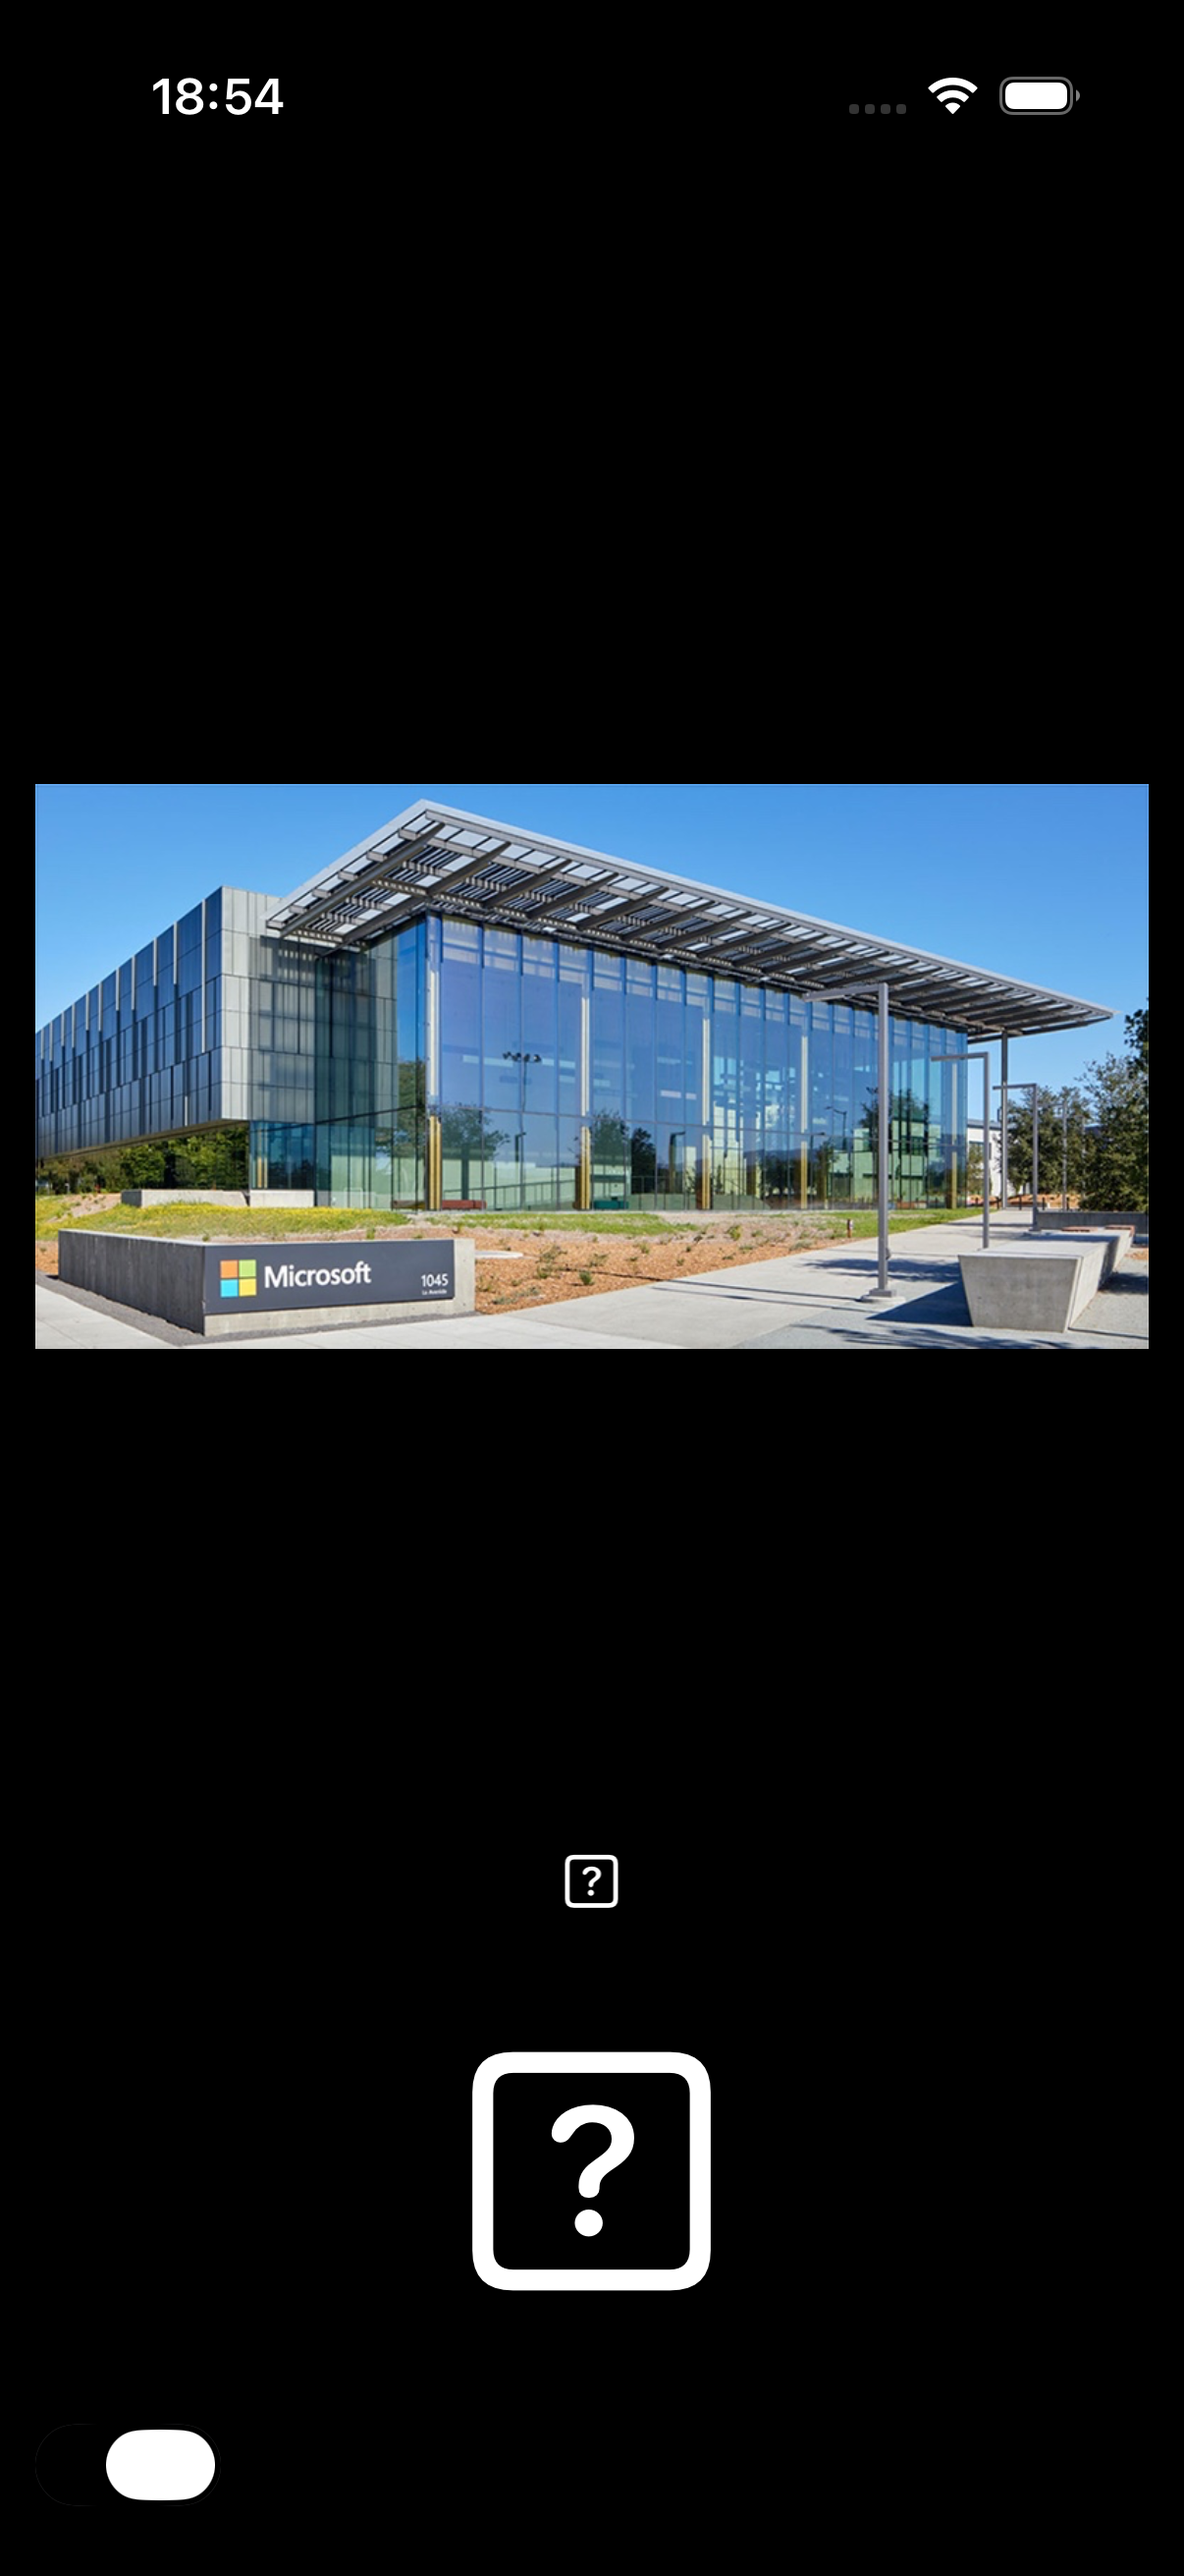
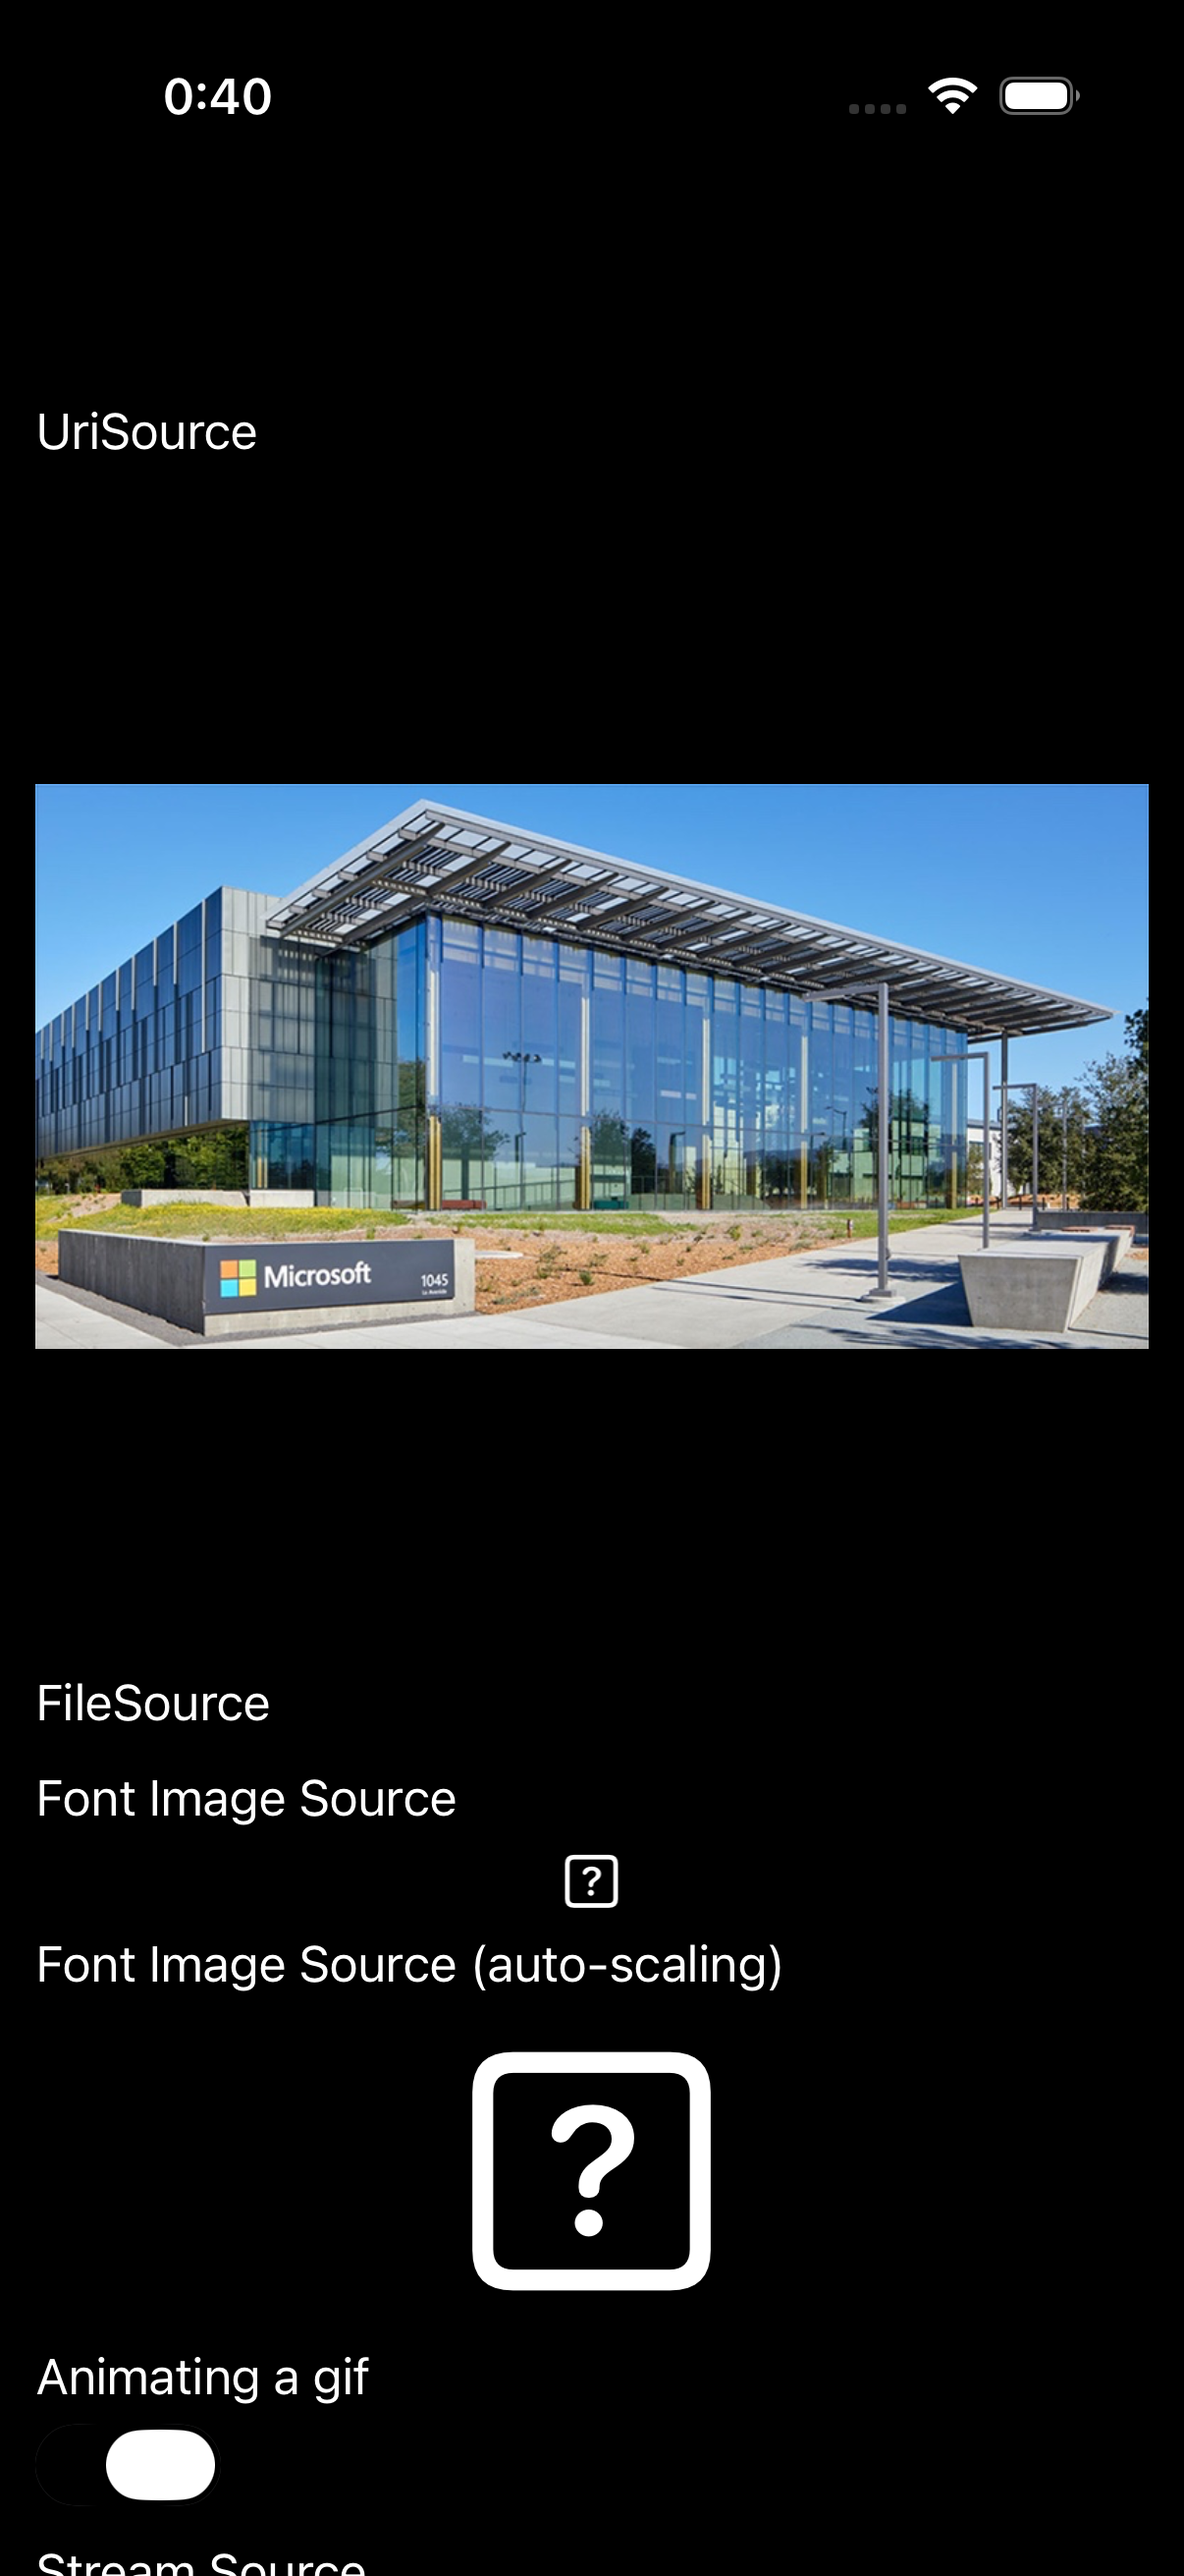
docs(parity): image — UriSource renders; from_file/FontImage need gallery asset bundling
example 17/172 (image): UriSource (remote https) renders identically to MAUI. But
FileSource (the purple .NET bot), the gif, and the Font Image Source rows are blank
because the C++ gallery .app bundles NO resource assets — only Info.plist + the binary,
so every from_file()/from_font() source fails to load (the iOS loader's
[UIImage imageNamed:] needs the asset present in the bundle). This is a gallery-
packaging gap, not a handler bug; flagged as task_e9f31e49 (add the asset files +
CMake RESOURCE bundling for both galleries). dotnet_bot.png is available in
~/maui-compare; the gif + icon-font are not. Stays diff.

diff --git a/port/cpp/docs/comparison/README.md b/port/cpp/docs/comparison/README.md
@@ -2,7 +2,7 @@
 
 Theme-matched iOS comparison: each page rendered by **real .NET MAUI** vs the **C++ port**, on the same iPhone 17 simulator, compared **light-vs-light** and **dark-vs-dark**. Both stacks render native-default controls + the system font (the C# app's `dotnet new maui` default `Styles.xaml` + OpenSans are stripped; appearance forced via `MAUI_THEME` / `MAUI_APPEARANCE`). Goal: pixel-perfect parity, fixed example-by-example.
 
-**Progress: 0 / 172 🟢 matched** · 16 🟡 minor · 52 🔴 diff · 104 ⬜ pending
+**Progress: 0 / 172 🟢 matched** · 16 🟡 minor · 53 🔴 diff · 103 ⬜ pending
 
 Status legend: 🟢 pixel-match (both themes) · 🟡 minor diff · 🔴 notable diff to fix · ⬜ not yet reviewed. Per-theme verdicts in `parity_status.json`.
 
@@ -28,7 +28,7 @@ Rows are in **fix order** (top → bottom): foundational single controls first (
 | 14 | Progress Bar | 🟡<br>L:minor<br>D:minor | ![](csharp_ios_light/progress_bar.png) | ![](cpp_ios_light/progress_bar.png) | ![](csharp_ios_dark/progress_bar.png) | ![](cpp_ios_dark/progress_bar.png) |
 | 15 | Activity Indicator | 🟡<br>L:minor<br>D:minor | ![](csharp_ios_light/activity_indicator.png) | ![](cpp_ios_light/activity_indicator.png) | ![](csharp_ios_dark/activity_indicator.png) | ![](cpp_ios_dark/activity_indicator.png) |
 | 16 | Indicator | 🟡<br>L:minor<br>D:minor | ![](csharp_ios_light/indicator.png) | ![](cpp_ios_light/indicator.png) | ![](csharp_ios_dark/indicator.png) | ![](cpp_ios_dark/indicator.png) |
-| 17 | Image | ⬜<br>L:pending<br>D:pending | ![](csharp_ios_light/image.png) | ![](cpp_ios_light/image.png) | ![](csharp_ios_dark/image.png) | ![](cpp_ios_dark/image.png) |
+| 17 | Image | 🔴<br>L:diff<br>D:diff | ![](csharp_ios_light/image.png) | ![](cpp_ios_light/image.png) | ![](csharp_ios_dark/image.png) | ![](cpp_ios_dark/image.png) |
 | 18 | Image Button | ⬜<br>L:pending<br>D:pending | ![](csharp_ios_light/image_button.png) | ![](cpp_ios_light/image_button.png) | ![](csharp_ios_dark/image_button.png) | ![](cpp_ios_dark/image_button.png) |
 | 19 | Box View | 🔴<br>L:minor<br>D:diff | ![](csharp_ios_light/box_view.png) | ![](cpp_ios_light/box_view.png) | ![](csharp_ios_dark/box_view.png) | ![](cpp_ios_dark/box_view.png) |
 | 20 | Content View | 🔴<br>L:diff<br>D:blank | ![](csharp_ios_light/content_view.png) | ![](cpp_ios_light/content_view.png) | ![](csharp_ios_dark/content_view.png) | ![](cpp_ios_dark/content_view.png) |
